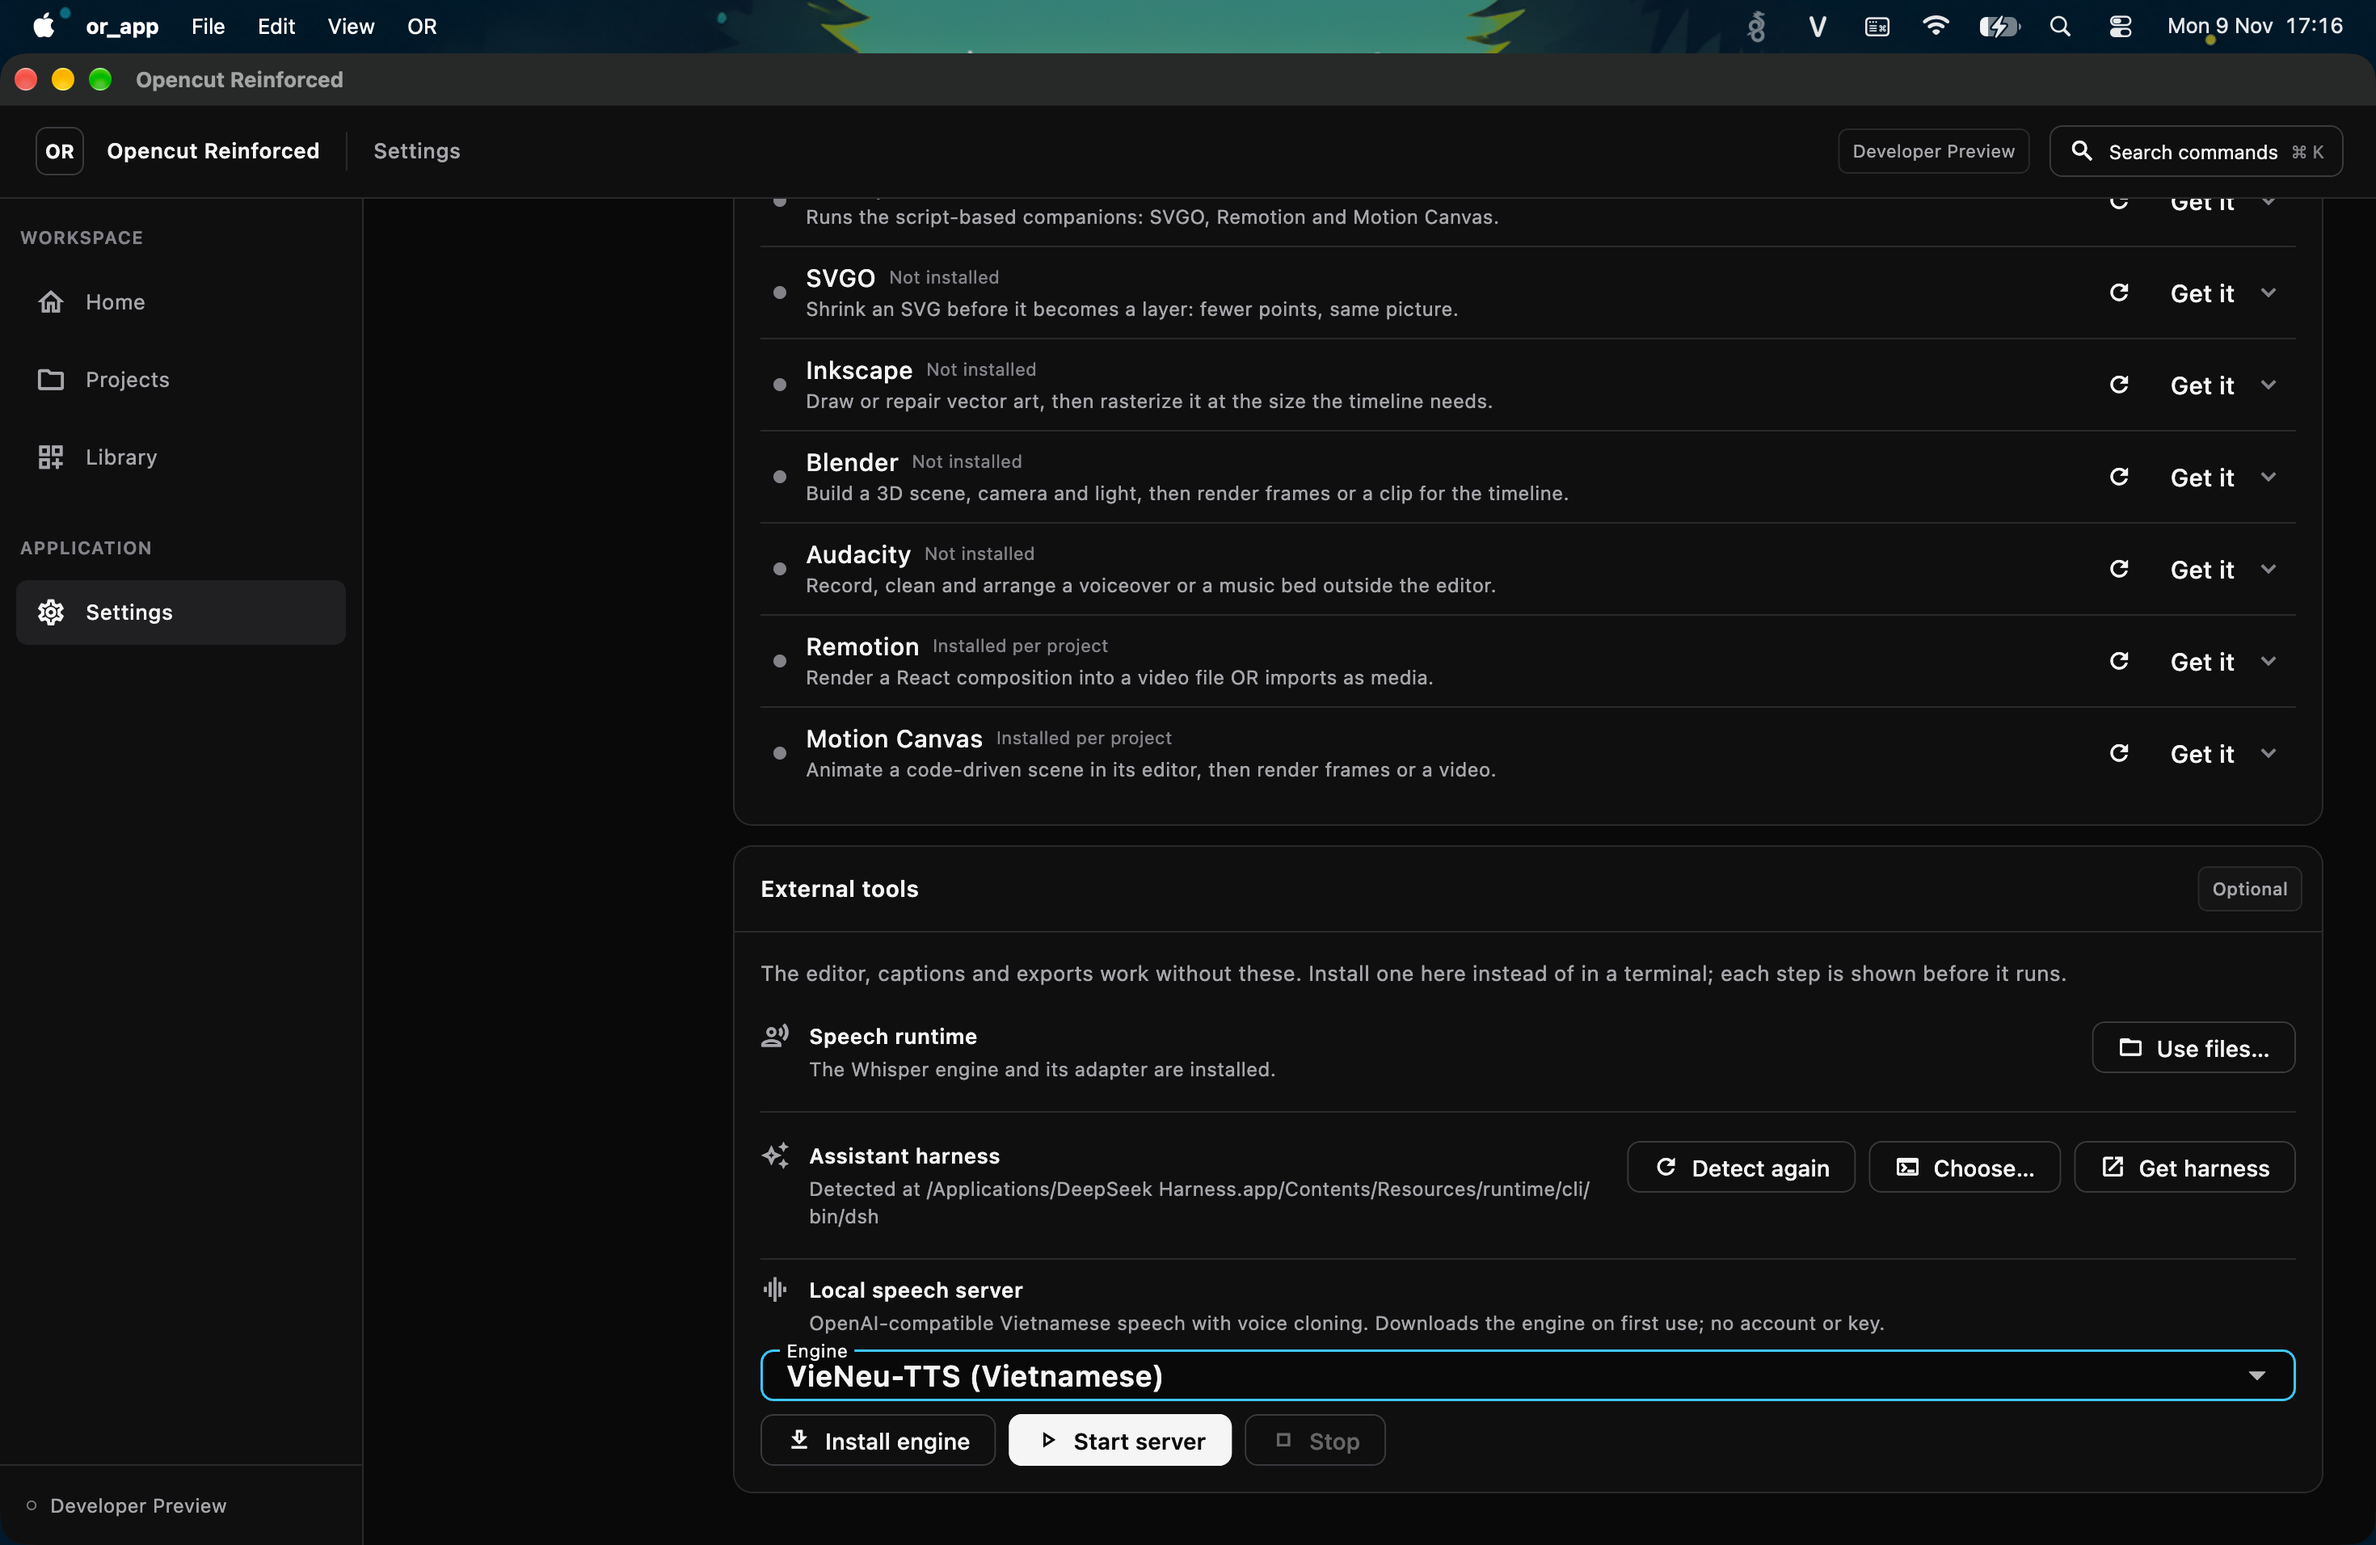
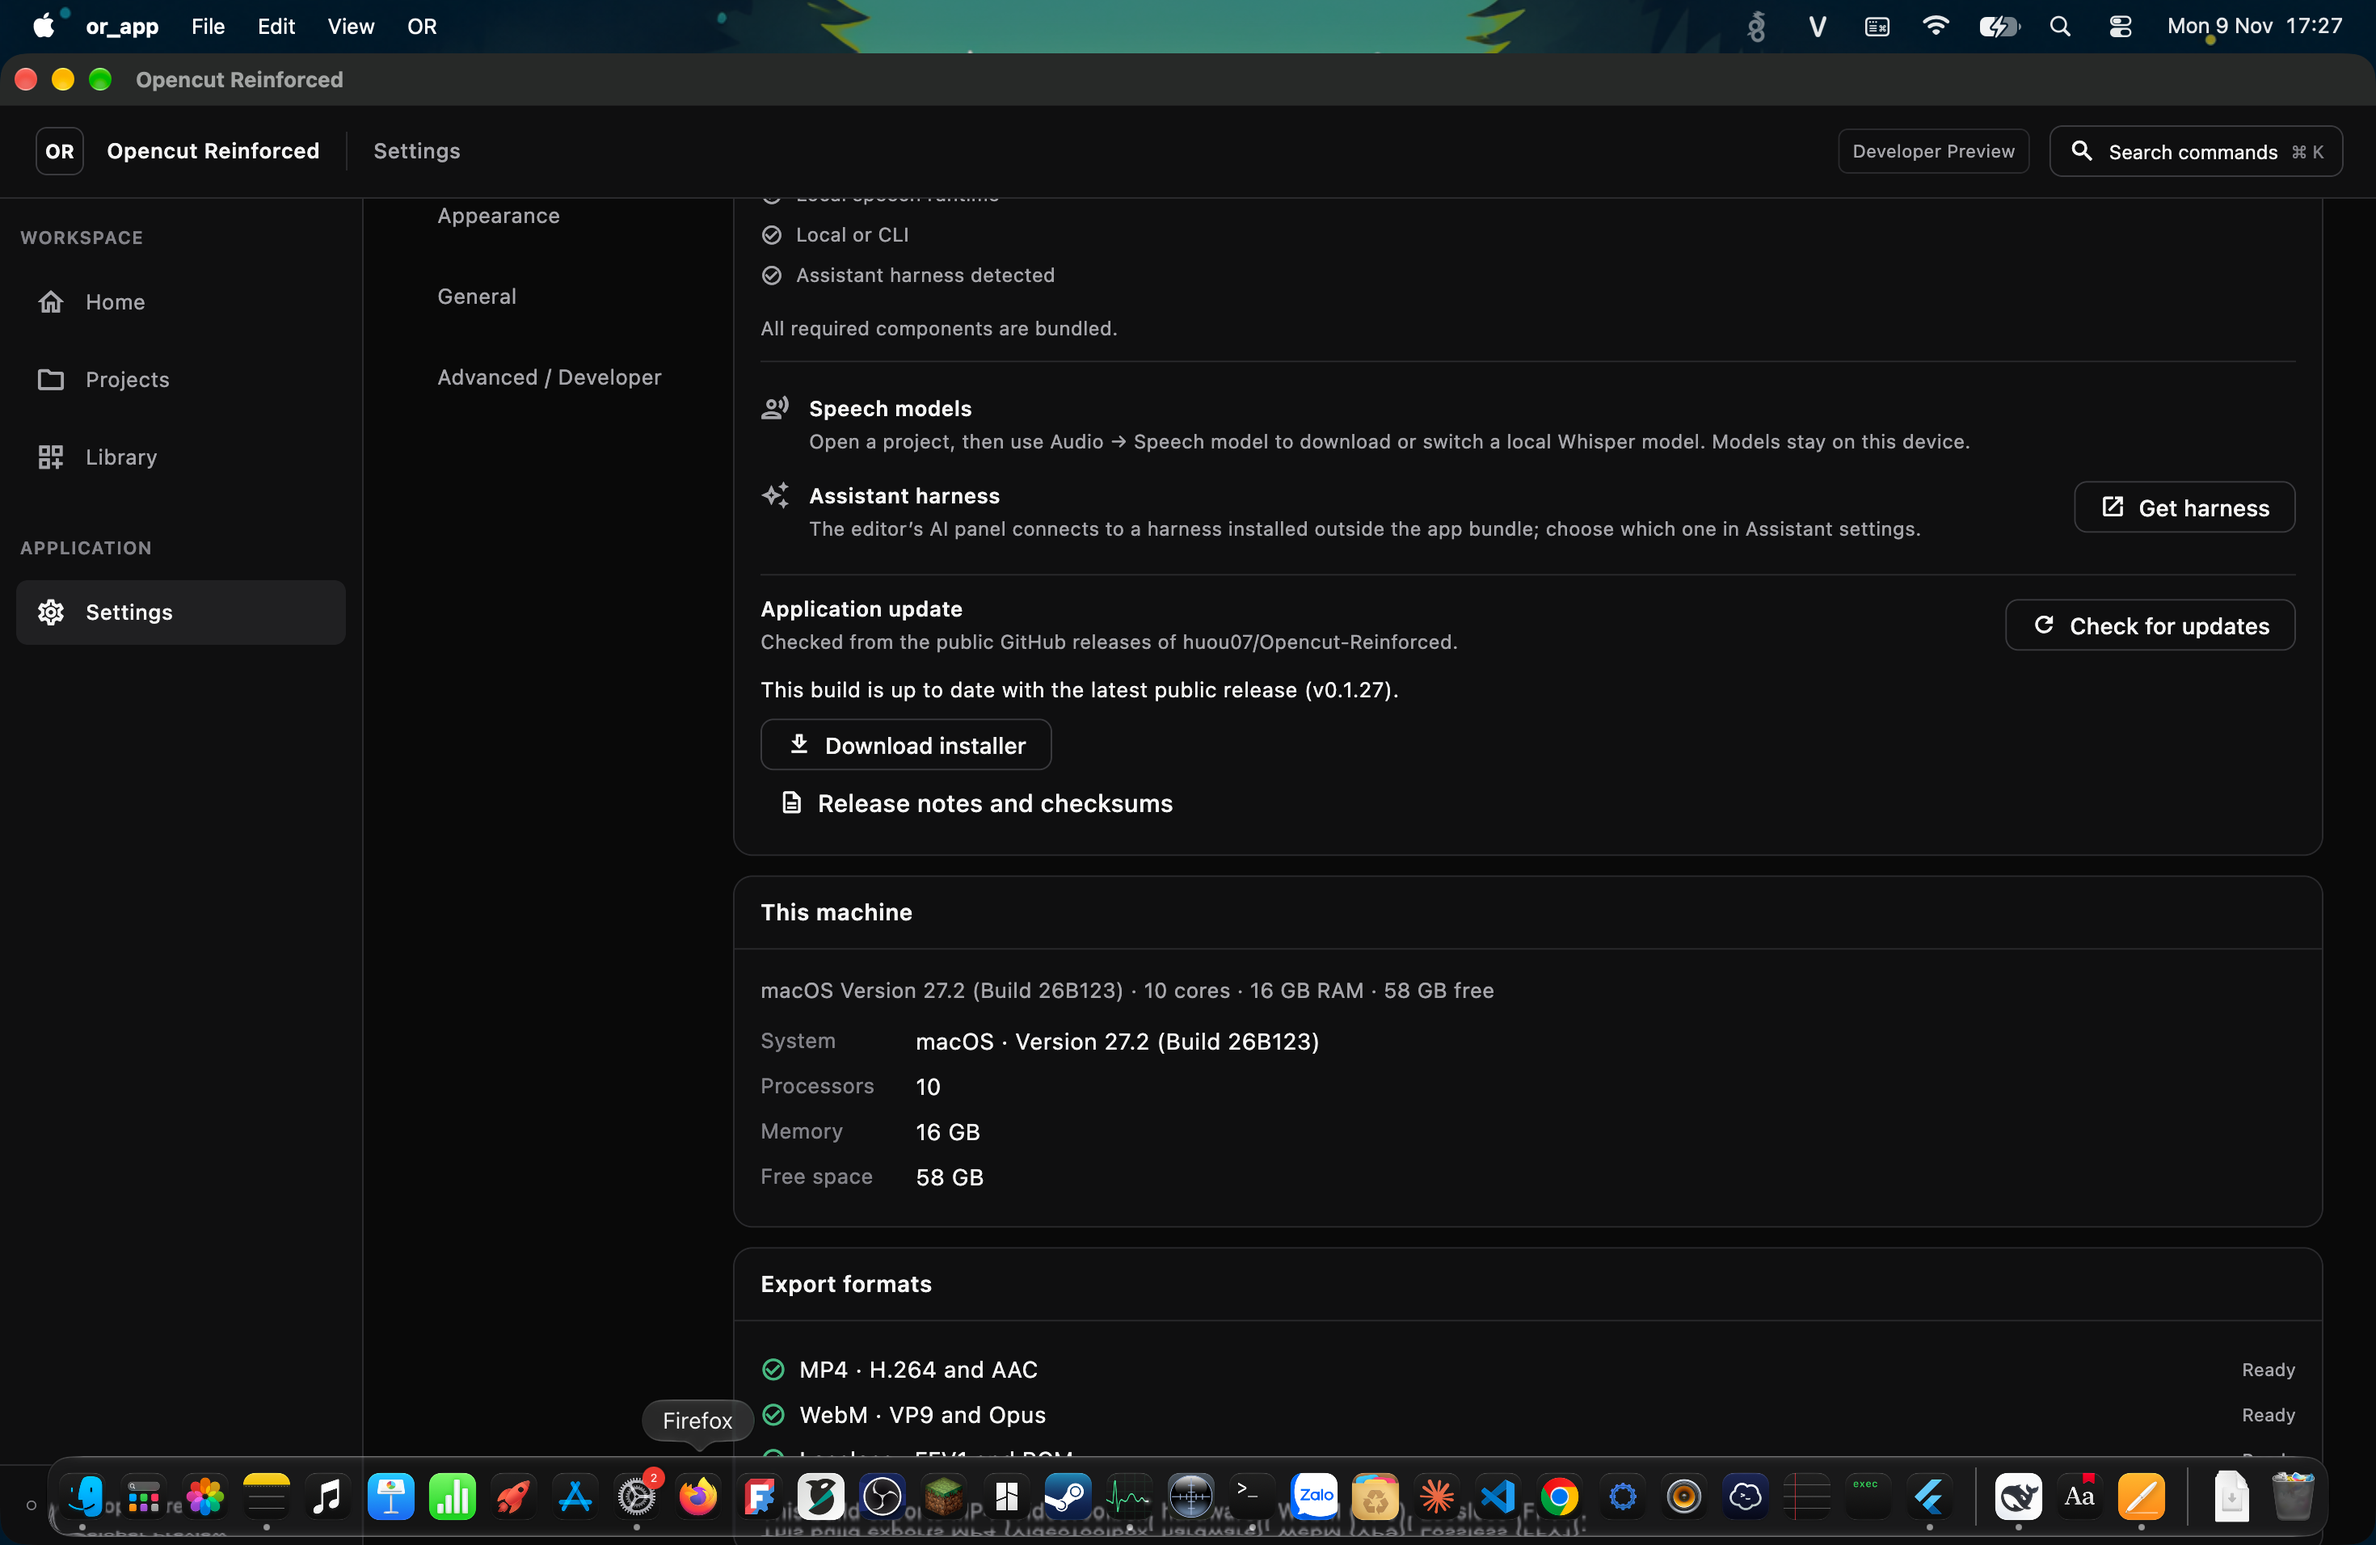
docs(release): record the 0.1.28 build, hashes and the export fix

diff --git a/docs/evidence/2026-11-09/public-release.md b/docs/evidence/2026-11-09/public-release.md
@@ -121,3 +121,80 @@ observed running here.
 - Decoding 4K natively and scaling in the compositor would remove 10–19 ms per
   frame from 4K→1080p exports; recorded with a recommendation, deliberately not
   changed in this release.
+
+## 0.1.28 — the export that could not write where it was told (2026-11-09)
+
+Reported from a real session: an export ended with `Operation not permitted`,
+and `ffmpeg` was blamed because that is the only name the message contained.
+
+**Cause.** The writer stages a hidden `.name.or-export-<pid>-<n>` directory
+beside the destination and renames the finished file into place
+(`crates/or_media/src/encoder.rs::create_staging_directory`). When the folder
+refused that new directory the error was formatted as `could not create export
+staging directory: Operation not permitted (os error 1)` — no folder, no reason
+and nothing to do. macOS withholds Desktop, Documents, Downloads and external
+volumes from an app until the owner allows it, and this build is ad-hoc signed,
+so every rebuild can look like a new app to that decision; the panel also opened
+wherever it was last used, which is often one of those folders. The app itself
+was never sandboxed: `codesign -d --entitlements -` on the shipped bundle shows
+no `com.apple.security.app-sandbox`.
+
+**Fix** (commit `0fe5fa8f`, portable-helper follow-up `5bf96750`):
+
+- `describe_staging_failure` names the folder and the remedy, with macOS
+  pointing at System Settings and the other platforms at a folder under home.
+- `check_export_destination` runs in `start_export` before the job is queued: it
+  rejects a directory, refuses a destination file it cannot open for writing
+  without truncating it, and proves the folder accepts a new directory by
+  creating and removing one. A refusal returns
+  `EXPORT_DESTINATION_NOT_WRITABLE` while the dialog is still on screen.
+- The macOS save panel starts in `~/Movies`; its return value grants nothing on
+  its own, and the stale comment claiming otherwise was corrected.
+- A failed export repeats its explanation as a notice (12 s) with a close, since
+  the top bar keeps one short line and drops the text on a compact layout.
+- Four Rust tests (`destination_tests`) cover the writable case, the write-denied
+  folder, a read-only destination file, and the writer's own first-failure
+  message.
+
+**Proof through the UI, not the API.** New journey
+`scripts/ui_scenarios/export-blocked-destination.json` (23 steps) hands the
+export a folder the runner made `0500` via the new scenario flag
+`exportWriteDenied`, then waits for the folder-naming sentence and the remedy in
+the live semantics tree before capturing the tree and a screenshot. PASS on
+macOS (`/tmp/or-export-blocked2`) and on Debian (`/tmp/or-deb-export-blocked-destination`);
+on Windows the flag has no `chmod` equivalent, so the journey is not run there.
+`export-encode` and `export-formats` re-ran green in the same session, so the
+fix did not disturb a working export.
+
+**Build at `5bf9675042`** (all three hosts fast-forwarded to it by bundle):
+
+| Asset | Bytes | SHA-256 |
+| --- | --- | --- |
[5 lines of base64/hex data omitted]
+
+Lane results at that commit: macOS `cargo test` suites green, `flutter test`
+`+621: All tests passed!`, `flutter analyze` clean, `cargo clippy -D warnings`
+clean; Debian `RESULT: LOCAL_LANE=PASS` (release DEB) plus the Flatpak build;
+Windows `WINDOWS_LANE=PASS` (build, stage, ZIP install/replacement/removal,
+setup). `bash scripts/check-repo.sh` passes.
+
+**A defect this release nearly shipped.** The first build of the fix failed on
+Windows only: the new helpers were inserted between `#[cfg(unix)]` and the
+function it guards, so `or_media` did not compile there (`the name
+create_private_directory is defined multiple times`, `cannot find unix in os`).
+The macOS lane and every journey were green at that commit; only the Windows
+lane caught it. `5bf96750` restores the attribute and words the remedy per
+platform. Both hosts were rebuilt afterwards, which is why the hashes above
+belong to `5bf96750` and not `0fe5fa8f`.
+
+**Installed and smoke tested at `5bf96750`:** macOS DMG → `/Applications`,
+`or version` → `Opencut Reinforced 0.1.28`, window `1470x923`, screenshot
+`docs/evidence/2026-11-09/macos/installed-0.1.28.png`; Debian `dpkg -i` →
+`/opt/opencut-reinforced/or version` 0.1.28; Flatpak `Changes complete.` with
+Version 0.1.28 and the same permissions, runtime still BLOCKED by the host;
+Windows setup exit 0 → `Opencut Reinforced 0.1.28`, desktop screenshot
+`docs/evidence/2026-11-09/windows/installed-0.1.28.png` (1536x864).

diff --git a/docs/reference/release.md b/docs/reference/release.md
@@ -29,18 +29,27 @@ Flatpak is built locally with `scripts/package_linux_flatpak.sh` and attached to
 the same release, and its entry is appended to `SHA256SUMS.txt`. A release with
 a missing or mismatched Flatpak is incomplete, not "four out of five".
 
-All five assets for 0.1.27 were built and installed on the three hosts before
-publication, from `main` at `9f86d514`, and uploaded after the tag run so the
-published bytes are the tested ones. The 0.1.28 table replaces it below once
-that build is published.
+All five assets for 0.1.28 were built and installed on the three hosts before
+publication, from `main` at `5bf96750`, so the published bytes are the tested
+ones:
 
 | Asset | Bytes | SHA-256 |
 | --- | --- | --- |
[10 lines of base64/hex data omitted]
+
+0.1.27, the first public build since 0.1.21, was cut from `9f86d514` the same
+day and carried: DMG 37,528,069 B
[2 lines of base64/hex data omitted]
+Flatpak 22,578,616 B
[2 lines of base64/hex data omitted]
+ZIP 35,073,625 B
[1 lines of base64/hex data omitted]
 
 The Flatpak **installs and declares its permissions** (`pulseaudio`, `dri`,
 `wayland`, `fallback-x11`, `xdg-documents|xdg-videos|xdg-download`) but its
